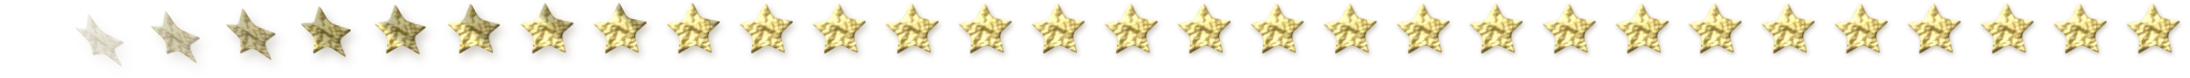
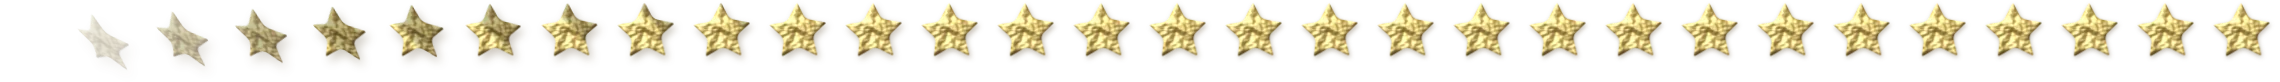
The all-done star in brass, 5% bigger
assets/star-stick.webp re-made from the brass finish at 32.55px (was soft brass at 31px), 56KB; it sits in the
same place beside "To do", centred on the heading as before, and still takes no room.

Claude-Session: https://claude.ai/code/session_01GtdkSXonN3BwzFbvEnYC89

diff --git a/app/index.html b/app/index.html
@@ -206,14 +206,14 @@
   #bar section { display: flex; flex-direction: column; min-height: 120px; }
   #notesWrap { flex: 1 1 40%; } /* the notes and the to-dos take the same room */
   #todoWrap { flex: 1 1 40%; margin-top: 24px; }
-  /* every to-do ticked: a soft brass foil star is stuck on beside "To do". It sits over the heading and takes no
+  /* every to-do ticked: a brass foil star is stuck on beside "To do". It sits over the heading and takes no
      room, so nothing moves. assets/star-stick.webp is 30 frames (made once from a 3D model of a bending sticker:
      one corner touches, then a curl is smoothed flat), the last of them the star at rest */
   #allDone { position: relative; display: inline-block; width: 0; height: 0; vertical-align: top; }
-  #allDone i { position: absolute; left: 5.75px; top: -2.25px; width: 36.5px; height: 39px; pointer-events: none;
-    background: url(assets/star-stick.webp) -1058.5px 0 / 1095px 39px no-repeat; }
+  #allDone i { position: absolute; left: 5.78px; top: -3px; width: 38px; height: 41px; pointer-events: none;
+    background: url(assets/star-stick.webp) -1102px 0 / 1140px 41px no-repeat; }
   #allDone i.go { animation: stuckOn 1000ms steps(29) both; }
-  @keyframes stuckOn { from { background-position: 0 0; } to { background-position: -1058.5px 0; } }
+  @keyframes stuckOn { from { background-position: 0 0; } to { background-position: -1102px 0; } }
   @media (prefers-reduced-motion: reduce) { #allDone i.go { animation: none; } }
   #notes {
     flex: 1; outline: none; overflow-y: auto; cursor: text; caret-color: transparent; white-space: pre-wrap;
